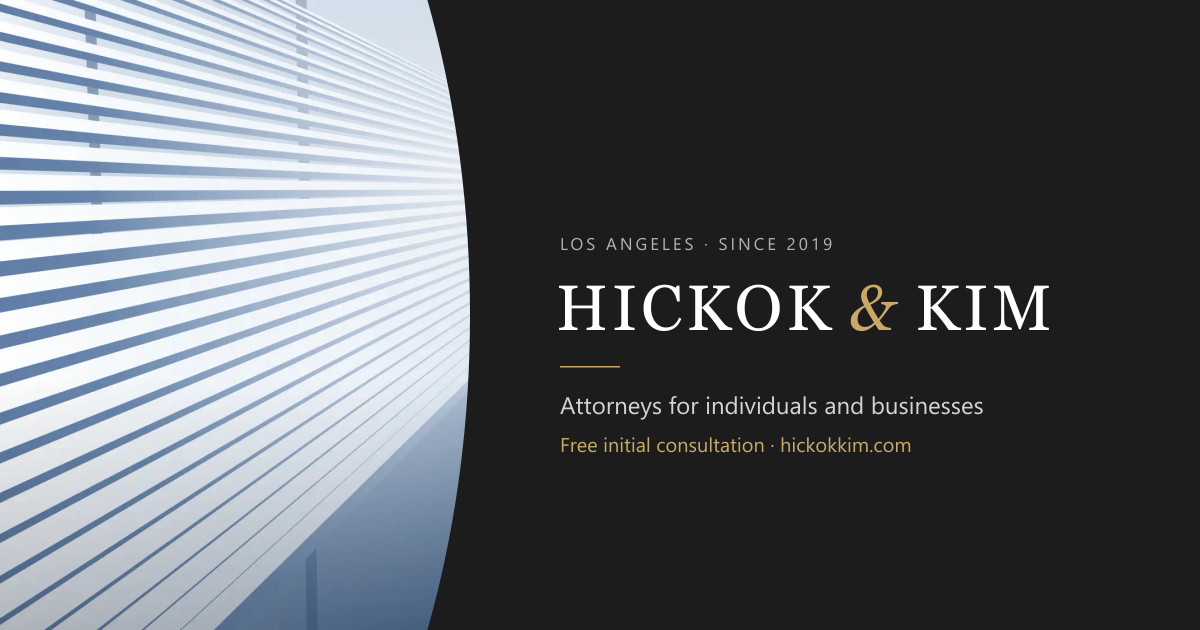
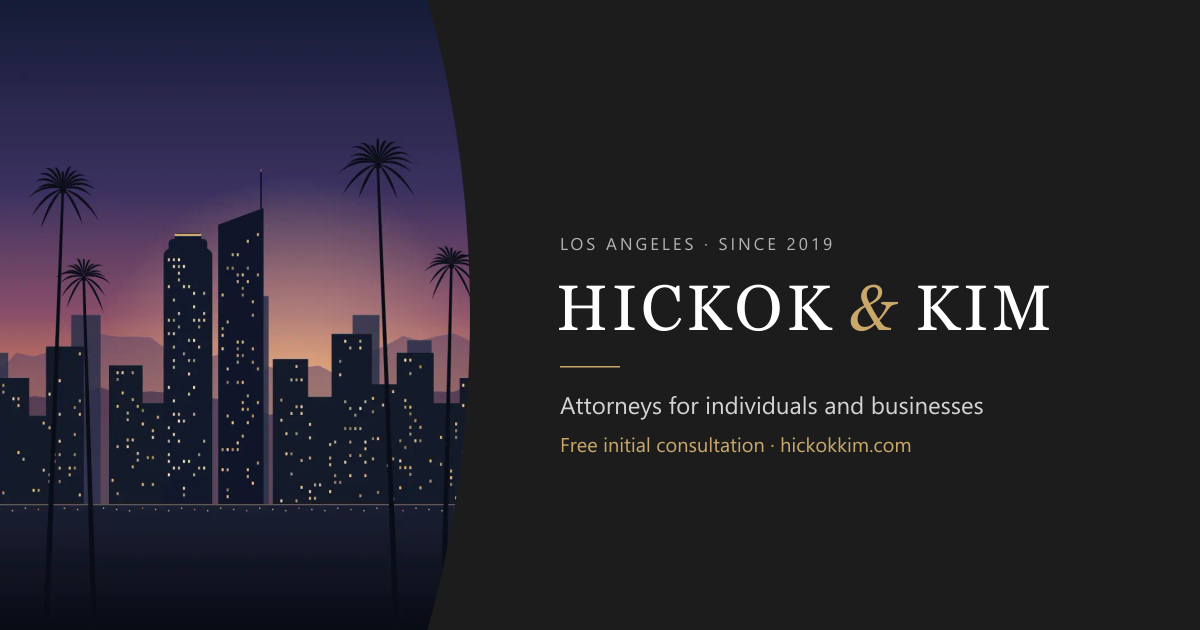
Add a Los Angeles opening slide with original skyline artwork
Yochan wanted Los Angeles visible, since the firm sells itself as local.

- New generated artwork (make-art.mjs, la-skyline): downtown at dusk with the
  Wilshire Grand spire, the U.S. Bank Tower crown, a hazier back row of
  towers, the San Gabriel Mountains, street lights, and fan palms in front.
  Original illustration, so no photo licensing question.
- It is now the first of four home showcase slides: "Los Angeles · Since
  2019", linking to practice areas, lawyers, and contact. Slides are now a
  generic shape (eyebrow, title, blurb, links) so non-practice slides fit.
- Preload and the share image both use the new art.

A licensed or client-supplied photograph can replace the illustration by
swapping public/assets/art/la-skyline.webp.

Both site checks pass.

diff --git a/README.md b/README.md
@@ -60,8 +60,8 @@ The site follows the structure and feel of large-firm editorial sites such as ki
 - **Tokens** live at the top of `src/styles/global.css`. To change the accent colour, edit `--accent`, `--accent-on-dark`, and `--accent-fill` only. Each was chosen to pass 4.5:1 contrast on its background.
 - **Type** is Playfair Display for headings and Rubik for body text, loaded asynchronously. Metric-matched fallbacks (`Playfair Fallback`, `Rubik Fallback`) keep layout shift at zero; the size-adjust values were measured in the browser. Re-measure if either family changes.
 - **Building blocks** in `src/components/`: `PageHero` (dark title band with rule and an optional link), `Section` (label-left layout; tones white, mist, dark), `Expandable` ("+ More" truncation that keeps every word in the HTML), `LawyerList`, `CtaBand` (curved art panel plus charcoal panel), `IntakeForm`, `Header` (with the menu overlay), `Footer`, `StickyCta`.
-- **Home page** opens with a split-screen showcase: curved-edge artwork on the left, charcoal panel on the right, cycling through the three client moments. It auto-advances every eight seconds, pauses on hover or focus, supports arrow keys, and stays still for visitors who prefer reduced motion. All slide text is in the HTML for crawlers.
-- **Artwork** is generated, not photographed: `node scripts/make-art.mjs` renders the louvers, tower facade, contour lines, menu texture, and hero texture into `public/assets/art/`. Then `node scripts/make-og.mjs` rebuilds the share image and icons from that art.
+- **Home page** opens with a split-screen showcase: curved-edge artwork on the left, charcoal panel on the right, opening on a Los Angeles skyline slide, then cycling through the three client moments. It auto-advances every eight seconds, pauses on hover or focus, supports arrow keys, and stays still for visitors who prefer reduced motion. All slide text is in the HTML for crawlers.
+- **Artwork** is generated, not photographed: `node scripts/make-art.mjs` renders the Los Angeles skyline, louvers, tower facade, contour lines, menu texture, and hero texture into `public/assets/art/`. Then `node scripts/make-og.mjs` rebuilds the share image and icons from that art.
 - **Testimonials** appear on the home page automatically once real, permitted quotes are added to `testimonials` in `src/data/firm.ts`.
 - **vCards** for each partner are generated at `/vcard/<slug>.vcf` from the firm's published phone and email.
 
